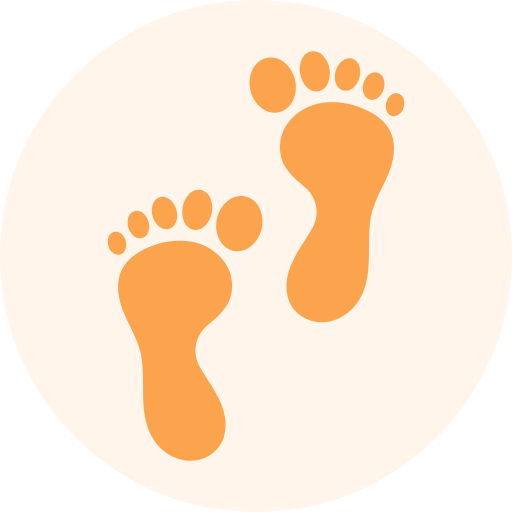
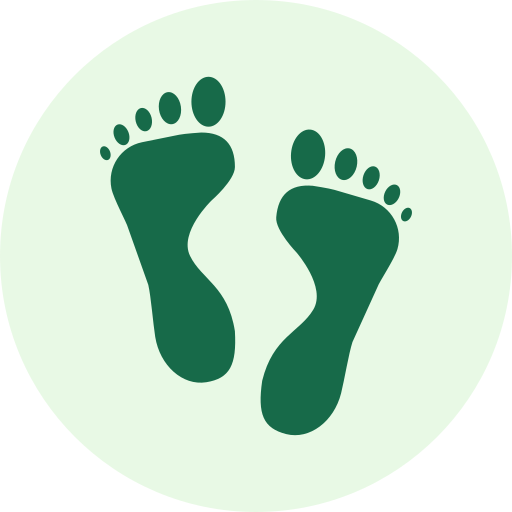
[S06P31E203-259]CHORE: CSS 수정 작업중

Changed region(s): [[0.1875, 0.0938, 0.8125, 0.9062]]

diff --git a/frontend/src/App.css b/frontend/src/App.css
@@ -605,7 +605,7 @@ border-radius: 30px;
 }
 .userMyPage .userMyPageBtn2 {
     /* margin-top: 10%; */
-    background-color: #ff9633;
+    background-color: #176a49;
     border: hidden;
     border-radius: 30px;
     box-shadow: 3px 3px 3px #b4b3b3;
@@ -731,12 +731,12 @@ border-radius: 30px;
 
 .storeCarbon {
     padding-top: 65px;
-    height: 100vh;
+    /* height: 100vh; */
     /* padding-bottom: 20%; */
 }
 
 .storeCarbon .imageDiv {
-    
+    position: relative;
     margin: 0 auto;
     overflow: hidden;
     width: 100vw;
@@ -748,7 +748,6 @@ border-radius: 30px;
     position: absolute;
     top: 0;
     left: 0;
-    margin-top: 0%;
     width: 100%;
     height: 100%;
     object-fit: cover;
@@ -785,7 +784,7 @@ border-radius: 30px;
 }
 .storeMyPage .storeMyPageBtn2 {
     /* margin-top: 10%; */
-    background-color: #ff9633;
+    background-color: #176a49;
     border: hidden;
     border-radius: 30px;
     box-shadow: 3px 3px 3px #b4b3b3;

diff --git a/frontend/src/components/myPage/store/StoreCarbon.js b/frontend/src/components/myPage/store/StoreCarbon.js
@@ -4,6 +4,7 @@ import NavBar from "../../common/NavBar";
 import { ResponsivePie } from "@nivo/pie";
 import Brightness1Icon from "@mui/icons-material/Brightness1";
 import BackButton from "../../BackButton";
+import NavStore from "../../../store/NavStore";
 
 function Chart(props) {
   if (props.height !== 0) {
@@ -99,6 +100,10 @@ function Category(props) {
 }
 
 function StoreCarbon() {
+
+  const setNavHeader = NavStore(state => state.setNavHeader);
+  setNavHeader("탄소발자국");
+
   const [data, setData] = useState([]);
   const [skipAngle, setSkipAngle] = useState(1.1);
   const [height, setHeight] = useState(400);
@@ -171,7 +176,6 @@ function StoreCarbon() {
   return (
     <div className="storeCarbon">
       <NavBar />
-      <h1>May 2022</h1>
       <Chart data={data} skipAngle={skipAngle} height={height}></Chart>
       <Category idxArr={idxArr}></Category>
       <h1>Clearance를 사용하면서</h1>

diff --git a/frontend/src/components/main/Main.js b/frontend/src/components/main/Main.js
@@ -15,9 +15,11 @@ import '../../App.css'
 
 function Main() {
 
+  
 
   const setNavHeader = NavStore(state => state.setNavHeader);
-  setNavHeader('\u00A0');
+  // setNavHeader('\u00A0');
+  setNavHeader('메인페이지');
 
   const pos = useMainStore(state => state.position)
   const bs = marketStore(state => state.bookSet)
